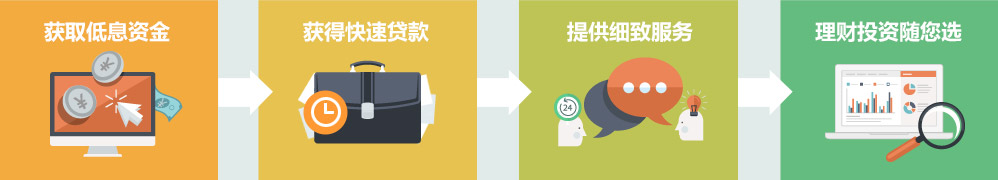
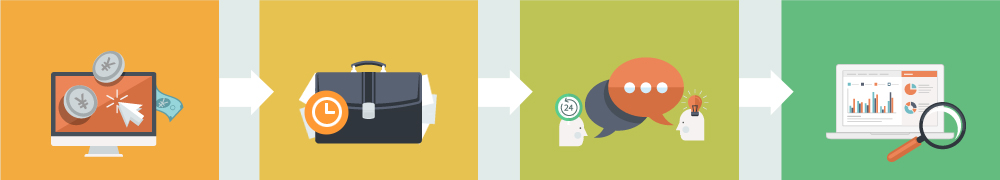
debug

diff --git a/css/style.css b/css/style.css
@@ -104,7 +104,8 @@ body.gray-bg {
 	font-size: 16px;
 	color: #666;
 	display: block;
-	margin: 0 20px 5px;
+	padding: 0 10px;
+	margin: 0 10px 5px;
 	padding-bottom: 3px;
 }
 
@@ -164,7 +165,7 @@ body.gray-bg {
 }
 
 .green-bg {
-	background-color: #d4e2e0;
+	background-color: #e1ebe9;
 }
 
 .green2-bg {
@@ -317,7 +318,7 @@ div.pos {
 
 /*04服务优势*/
 .service-wrap h1 {
-	margin: 50px auto 35px;
+	margin: 42px auto 20px;
 	color: #0ebfdd;
 	font-size: 30px;
 	width: 205px;
@@ -336,8 +337,38 @@ div.pos {
 }
 
 .service-img {
+	position: relative;
+	z-index: 1;
 	display: block;
+	width: 898px;
+	height: 111px;
 	margin: 0 auto 35px;
+	background: url("../images/about5.jpg") no-repeat 0 0;
+}
+.service-img p {
+	position: absolute;
+	top: 35px;
+	z-index: 2;
+	width: 73px;
+	height: 45px;
+	font-size: 18px;
+	color: #3582ae;
+	text-align: center;
+}
+.service-img .p1 {
+	left: 108px;
+}
+.service-img .p2, .service-img .p4 {
+	width: 92px;
+}
+.service-img .p2 {
+	left: 329px;
+}
+.service-img .p3 {
+	left: 572px;
+}
+.service-img .p4 {
+	left: 790px;
 }
 
 .service-list {
@@ -355,7 +386,7 @@ div.pos {
 .service-list dl dt i,
 .service-list dl dt h3 {
 	display: inline-block;
-	font-size: 20px;
+	font-size: 26px;
 	font-weight: normal;
 	line-height: 32px;
 }
@@ -931,13 +962,16 @@ p.ys {
     margin-bottom: 40px;
 }
 .about-contact {
+	padding: 88px 0 45px;
+	margin-bottom: 130px;
+	overflow: hidden;
+	zoom: 1;
     text-align: left;
     background: #fff url(../images/about-contact.png) 0 0 no-repeat;
-    padding: 88px 0 45px;
-    margin-bottom: 130px;
 }
 .about-contact ul {
     display: inline-block;
+	float: left;
     vertical-align: middle;
 }
 .about-contact li {
@@ -948,6 +982,7 @@ p.ys {
 }
 .about-contact .wechat {
     display: inline-block;
+	float: left;
     margin-left: 50px;
     padding-left: 50px;
     border-left: 1px solid #ccc;
@@ -956,6 +991,101 @@ p.ys {
     font-size: 18px;
     color: #666;
     margin-bottom: 13px;
+}
+.about-box {
+	padding: 25px 0;
+	overflow: hidden;
+	zoom: 1;
+	background: #92cedd url("../images/about4.png") no-repeat 340px 66px;
+}
+.about-box dd {
+	float: left;
+	width: 244px;
+	padding: 0 44px;
+	line-height: 1.8;
+}
+.about-box dd img {
+	display: block;
+	margin: 0 auto;
+}
+.about-box dd h3 {
+	position: relative;
+	z-index: 1;
+	width: 120px;
+	padding-bottom: 8px;
+	margin: 17px auto 20px;
+	font-size: 24px;
+	color: #fff;
+	border-bottom: 1px solid #6c7476;
+}
+.about-box dd h3 i {
+	position: absolute;
+	bottom: -2px;
+	left: 36px;
+	z-index: 2;
+	display: block;
+	width: 40px;
+	height: 4px;
+	background: #fff;
+}
+.about-box dd .p1 {
+	padding-top: 10px;
+}
+.fsq-service {
+	position: relative;
+	z-index: 1;
+	width: 1000px;
+	height: 180px;
+	margin-bottom: 45px;
+	background: url("../images/fsq-img.jpg") no-repeat 0 0;
+}
+.fsq-service p {
+	position: absolute;
+	top: 20px;
+	z-index: 2;
+	width: 152px;
+	font-size: 21px;
+	color: #fff;
+}
+.fsq-service .p1 {
+	left: 47px;
+}
+.fsq-service .p2 {
+	left: 306px;
+}
+.fsq-service .p3 {
+	left: 565px;
+}
+.fsq-service .p4 {
+	left: 817px;
+}
+.qsf-service {
+	position: relative;
+	z-index: 1;
+	width: 1000px;
+	height: 180px;
+	margin-bottom: 45px;
+	background: url("../images/qsf-img.jpg") no-repeat 0 0;
+}
+.qsf-service p {
+	position: absolute;
+	top: 20px;
+	z-index: 2;
+	width: 152px;
+	font-size: 21px;
+	color: #fff;
+}
+.qsf-service .p1 {
+	left: 39px;
+}
+.qsf-service .p2 {
+	left: 307px;
+}
+.qsf-service .p3 {
+	left: 568px;
+}
+.qsf-service .p4 {
+	left: 830px;
 }
 
 

diff --git a/about.html b/about.html
@@ -39,12 +39,33 @@
     <p class="ys">凭借雄厚的资金实力及专业的贷款顾问的鼎力支持，我们致力于以盘活不动产为每一位投资人增益，通过对海外房产投资的深入考核与调研后，甄选出最佳投资方案，为投资人提供海外房产置业、投资、移民等一站式服务，实现客户资产的全方位增值。伴随着公司在业内影响力的不断攀升，目前已在北京及新西兰设立分公司及办事处，并成为美国、英国、加拿大、澳洲、新西兰中国区的一级房产渠道商。</p>
     <p class="ys">我们基于海外房产投资领域的大量调研分析，随时为客户提供全方位的金融投资最佳解决方案。我们以追求提供高品质服务为理念，尽心竭力为客户盘活不动产，专属的投资方案，高效的办公效率，让客户资本实现最大限度地快速增长。</p>
     <p class="ys">五年以来，我们已为逾千位客户提供专业贷款服务, 包括企业经营贷、房屋消费贷、短期周转贷、信用贷款等服务。</p>
-    <div class="">
-        <img src="images/about-img.jpg" alt="" class="about-img">
+    <div class="about-box">
+        <dl>
+            <dd>
+                <img src="images/about1.png" />
+                <h3>我们的理念<i></i></h3>
+                <p>为客户定制专属投资方案，通过盘活不动产让您的资产实现安全稳妥高效的增值。</p>
+            </dd>
+            <dd>
+                <img src="images/about2.png" />
+                <h3>我们的使命<i></i></h3>
+                <p class="p1">让每一位投资者都能得到最稳固的回报。</p>
+            </dd>
+            <dd>
+                <img src="images/about3.png" />
+                <h3>我们的理念<i></i></h3>
+                <p>创建优质海外房产投资平台，为您革新生活方式，您的满意就是对我们最大的嘉奖。</p>
+            </dd>
+        </dl>
     </div>
     <h1>我们的服务</h1>
     <div class="service-list green3-bg green-bg">
-        <img src="images/04_service_list.png" alt="" class="service-img">
+        <div class="service-img">
+            <p class="p1">专家定制理财规划</p>
+            <p class="p2">利用北京房产获得贷款</p>
+            <p class="p3">甄选优质海外房产</p>
+            <p class="p4">一站式托管资产增值</p>
+        </div>
         <dl>
             <dt><i>1</i><h3>极度尊贵的专家级定制化服务</h3></dt>
             <dd>根据客户情况匹配最佳贷款担保方案，为客户量身定制专属个性化投资理财规划，提供最私人最专业的咨询服务。</dd>

diff --git a/index.html b/index.html
@@ -61,6 +61,16 @@
                 <a href="" class="more"></a>
             </p>
         </li>
+        <li class="f2" style="display:none;background:#dde3e3 url(images/banner02.jpg) center top no-repeat;">
+            <p class="wrap">
+                <a href="" class="more"></a>
+            </p>
+        </li>
+        <li class="f3" style="display:none;background: url(images/banner03.jpg) center top no-repeat;">
+            <p class="wrap">
+                <a href="" class="more"></a>
+            </p>
+        </li>
     </ul>
     <div class="ck-slidebox">
         <div class="slideWrap">
@@ -68,6 +78,8 @@
                 <li class="current"><em>1</em></li>
                 <li><em>2</em></li>
                 <li><em>3</em></li>
+                <li><em>4</em></li>
+                <li><em>5</em></li>
             </ul>
         </div>
     </div>
@@ -293,7 +305,7 @@
         </div>
     </div>
 </div>
-<br><br><br><br>
+
 <div class="wider footer">
     <ul>
         <li><a href="">关于我们</a></li>

diff --git a/03-2.html b/03-2.html
@@ -43,7 +43,12 @@
 <div class="service-list fsq-item green-bg green-bg1 qsf-item">
     <div class="wrap service-wrap">
         <h1>特色服务</h1>
-        <img src="images/qsf-img.jpg" alt="" class="service-img">
+        <div class="qsf-service">
+            <p class="p1">一站式托管服务</p>
+            <p class="p2">资产快速增值</p>
+            <p class="p3">权威律师团队</p>
+            <p class="p4">全球接待中心</p>
+        </div>
         <dl class="a">
             <dt><i>A</i><h3>一站式托管服务让您省心、放心</h3></dt>
             <dd>一站式托管服务的核心是为客户量身打造独有的海外购房方案，让您快速实现钱生房，我们提供专属于您的海外置业投资方案，根据您的个人需要，推荐投资目标国家，寻找到最适合您的海外房产。专业的房产经纪人一对一服务，一站式的托管让您足不出户坐拥天下。</dd>

diff --git a/03-1.html b/03-1.html
@@ -58,7 +58,12 @@
 <div class="service-list green-bg fsq-item">
     <div class="wrap service-wrap">
         <h1>特色服务</h1>
-        <img src="images/fsq-img.jpg" alt="" class="service-img">
+        <div class="fsq-service">
+            <p class="p1">获取低息资金</p>
+            <p class="p2">获得快速贷款</p>
+            <p class="p3">提供细致服务</p>
+            <p class="p4">理财投资随您选</p>
+        </div>
         <dl class="a">
             <dt><i>A</i>
             <h3>轻松获取银行低息资金</h3></dt>

diff --git a/css/main.less b/css/main.less
@@ -182,7 +182,7 @@
     li {
         display: inline-block;
         height: 33px;
-        padding: 0 18px;
+        padding: 0 36px;
         line-height: 33px;
         background: url("../images/border-right.jpg") no-repeat right 9px;
         &:last-child {
@@ -195,7 +195,7 @@
         i {
             width: 51px;
             height: 33px;
-            margin-right: 10px;
+            margin-right: 7px;
         }
     }
     .england {

diff --git a/css/main.css b/css/main.css
@@ -208,7 +208,7 @@
 .tz-nav li {
   display: inline-block;
   height: 33px;
-  padding: 0 18px;
+  padding: 0 36px;
   line-height: 33px;
   background: url("../images/border-right.jpg") no-repeat right 9px;
 }
@@ -223,7 +223,7 @@
 .tz-nav li i {
   width: 51px;
   height: 33px;
-  margin-right: 10px;
+  margin-right: 7px;
 }
 .tz-nav .england i {
   background: url("../images/list/england.png") no-repeat 0 0;
